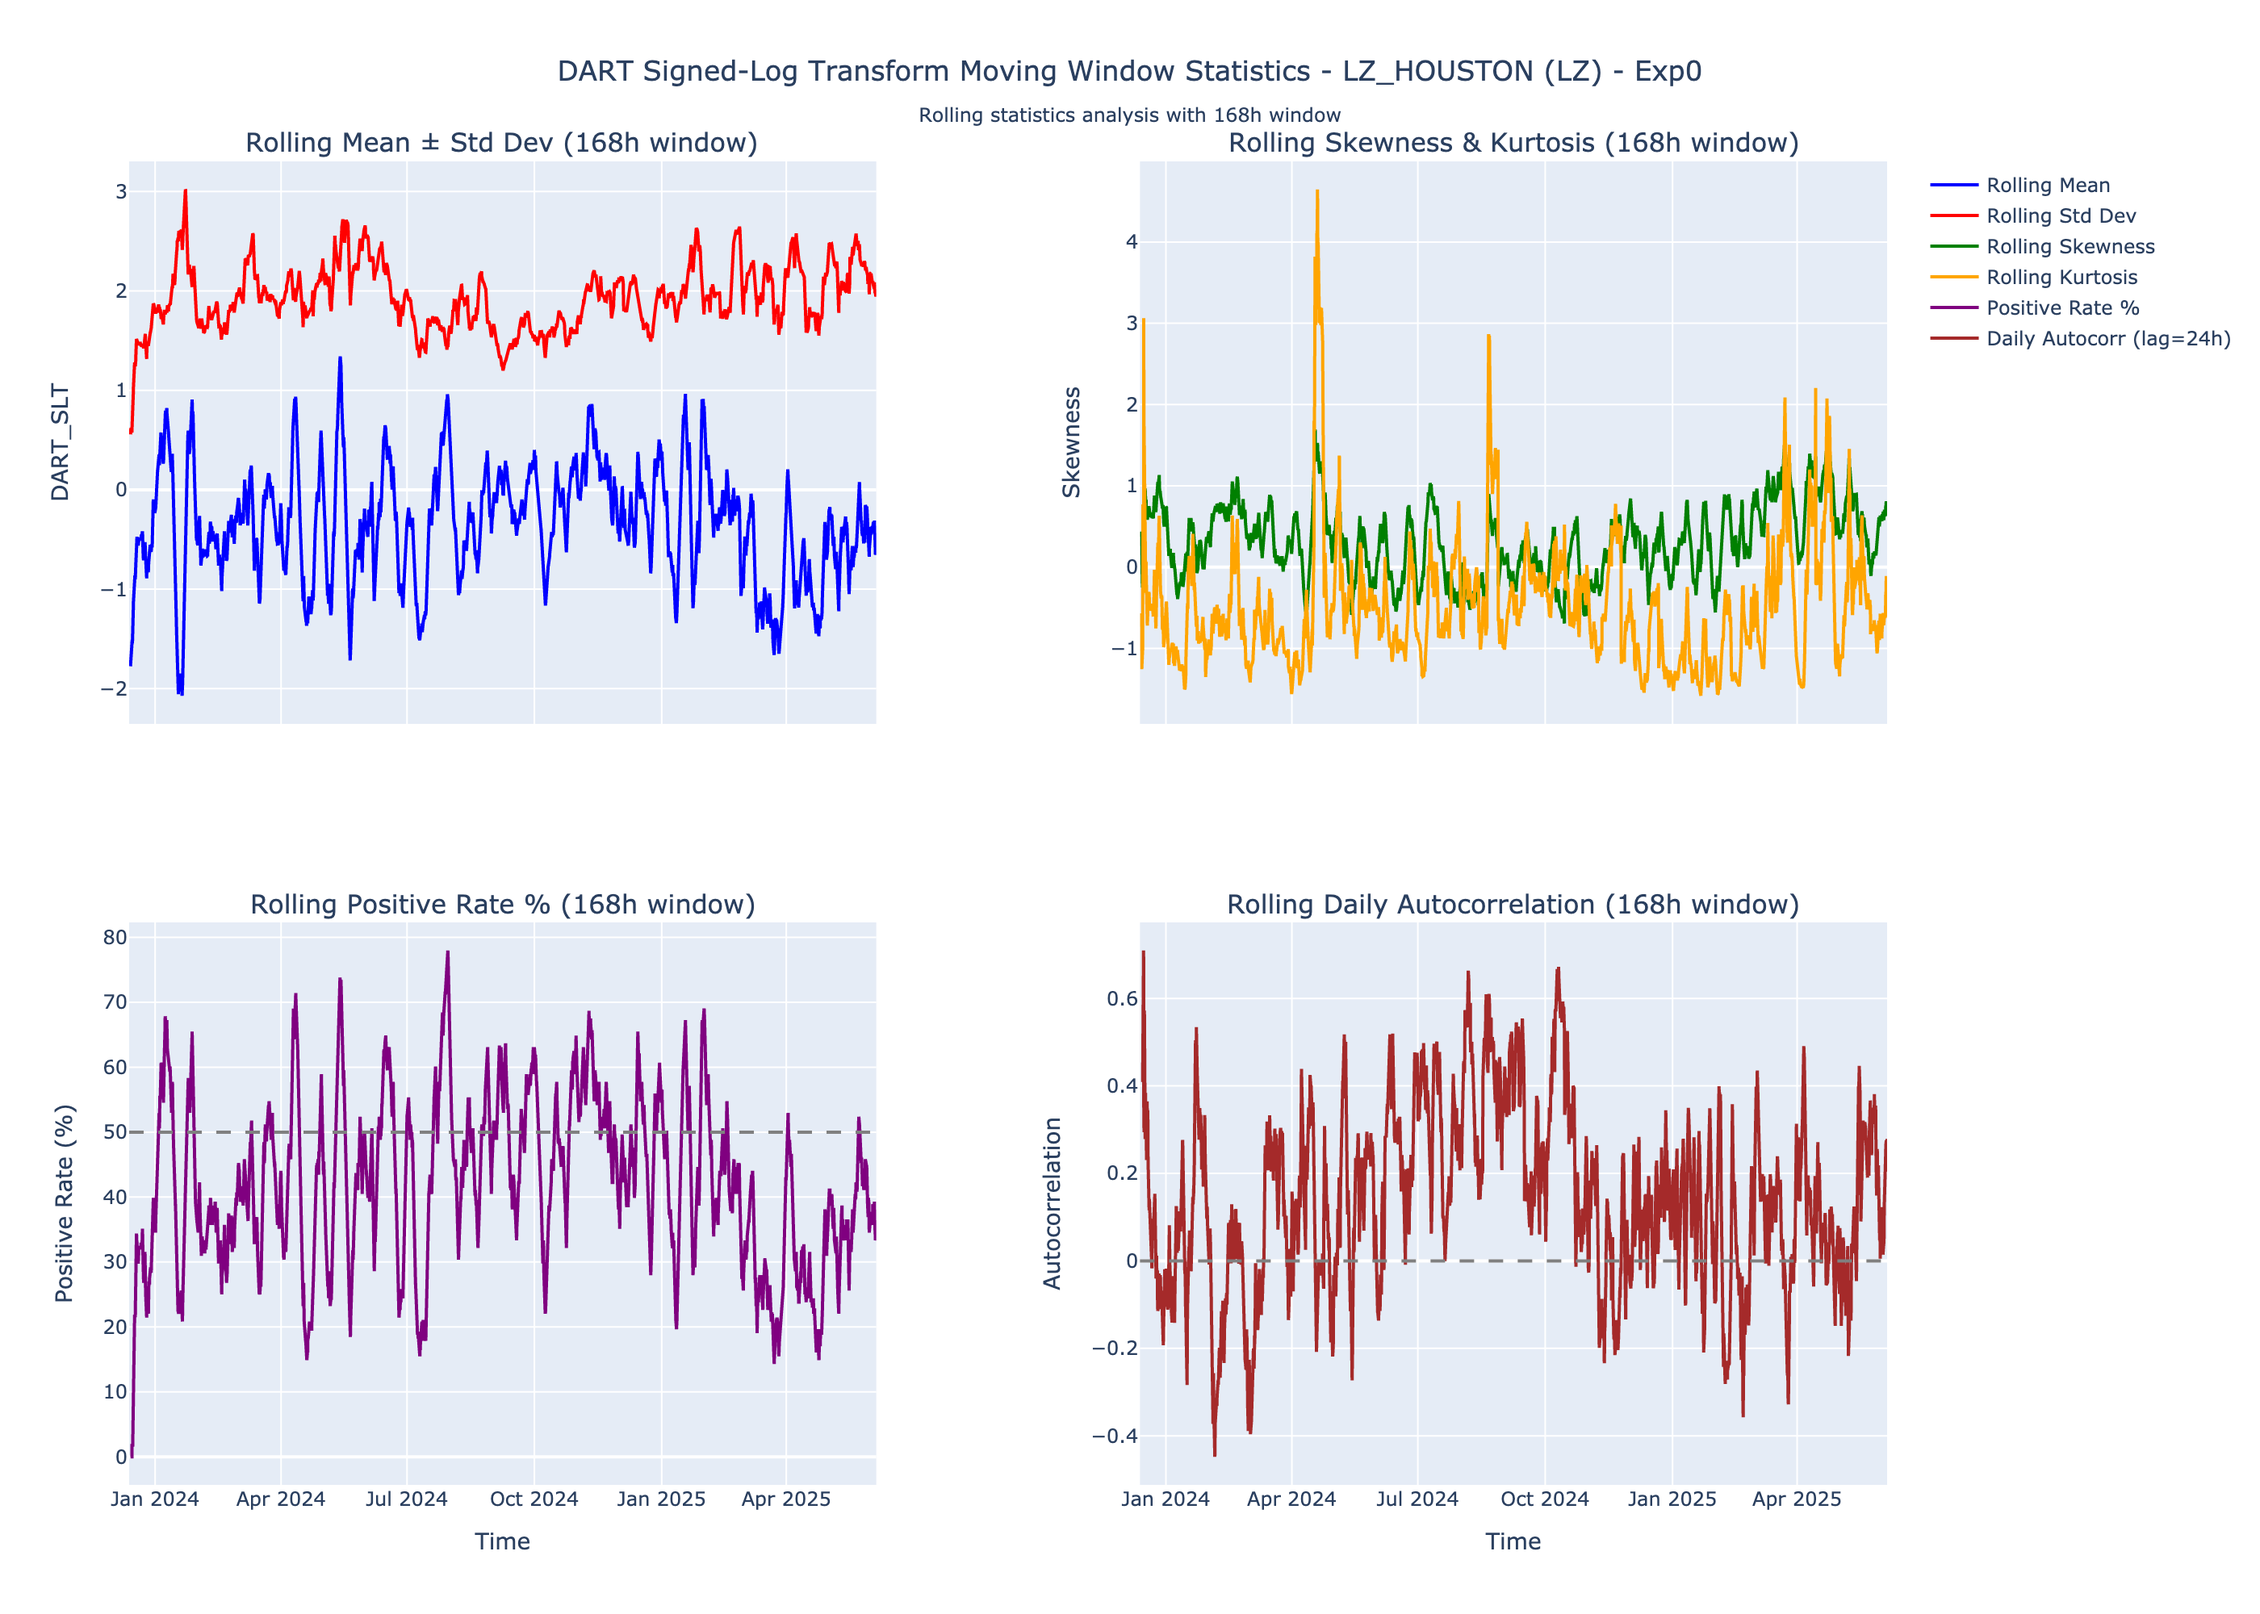
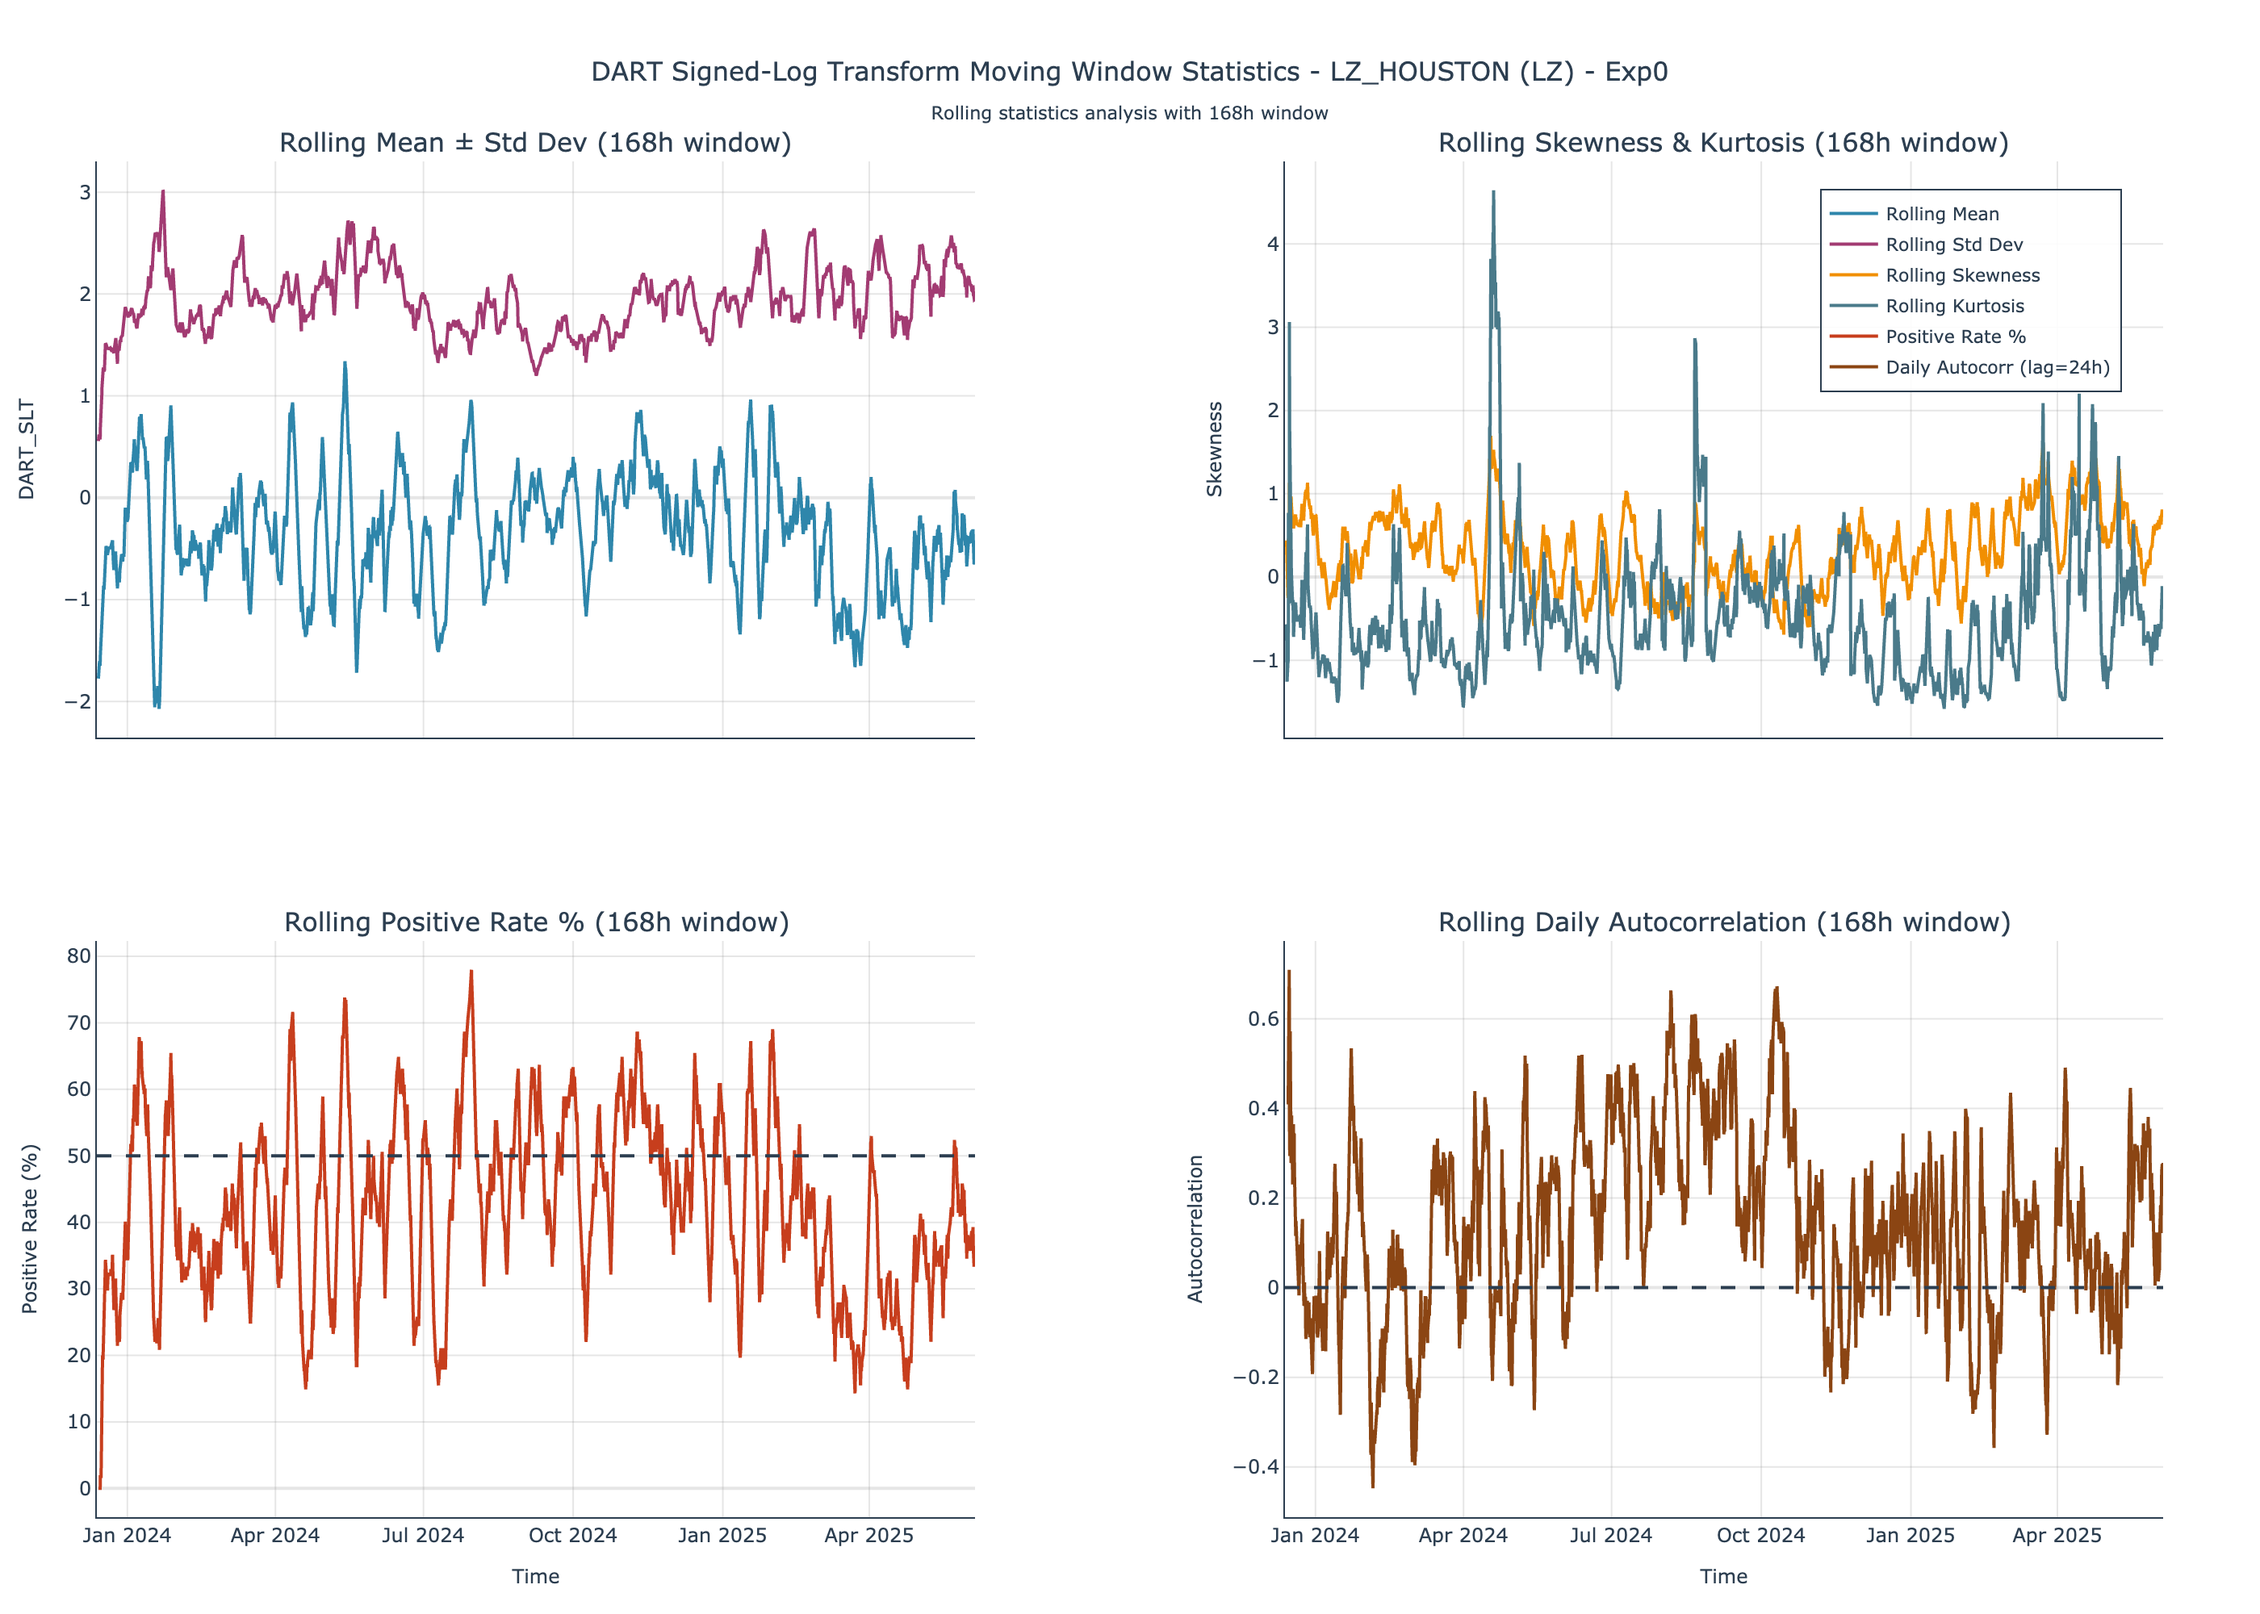
Refining plots for that professional look.

diff --git a/src/features/ercot/visualization.py b/src/features/ercot/visualization.py
@@ -2522,7 +2522,7 @@ def plot_dart_slt_moving_window_stats(
                 y=rolling_mean.values,
                 mode="lines",
                 name="Rolling Mean",
-                line=dict(color="blue", width=2),
+                line=dict(color=COLOR_SEQUENCE[0], width=2),  # Professional blue
                 showlegend=True
             ),
             row=1, col=1
@@ -2534,7 +2534,7 @@ def plot_dart_slt_moving_window_stats(
                 y=rolling_std.values,
                 mode="lines",
                 name="Rolling Std Dev",
-                line=dict(color="red", width=2),
+                line=dict(color=COLOR_SEQUENCE[1], width=2),  # Professional magenta
                 yaxis="y2",
                 showlegend=True
             ),
@@ -2548,7 +2548,7 @@ def plot_dart_slt_moving_window_stats(
                 y=rolling_skew.values,
                 mode="lines",
                 name="Rolling Skewness",
-                line=dict(color="green", width=2),
+                line=dict(color=COLOR_SEQUENCE[2], width=2),  # Professional orange
                 showlegend=True
             ),
             row=1, col=2
@@ -2560,7 +2560,7 @@ def plot_dart_slt_moving_window_stats(
                 y=rolling_kurt.values,
                 mode="lines",
                 name="Rolling Kurtosis",
-                line=dict(color="orange", width=2),
+                line=dict(color=COLOR_SEQUENCE[3], width=2),  # Professional teal
                 yaxis="y4",
                 showlegend=True
             ),
@@ -2574,14 +2574,14 @@ def plot_dart_slt_moving_window_stats(
                 y=rolling_positive_pct.values,
                 mode="lines",
                 name="Positive Rate %",
-                line=dict(color="purple", width=2),
+                line=dict(color=COLOR_SEQUENCE[4], width=2),  # Professional red
                 showlegend=True
             ),
             row=2, col=1
         )
         
         # Add 50% reference line
-        fig.add_hline(y=50, line_dash="dash", line_color="gray", row=2, col=1)
+        fig.add_hline(y=50, line_dash="dash", line_color=SEMANTIC_COLORS['neutral_line'], row=2, col=1)
         
         # Plot 4: Rolling autocorrelation
         fig.add_trace(
@@ -2590,27 +2590,29 @@ def plot_dart_slt_moving_window_stats(
                 y=rolling_autocorr.values,
                 mode="lines",
                 name="Daily Autocorr (lag=24h)",
-                line=dict(color="brown", width=2),
+                line=dict(color=COLOR_SEQUENCE[5], width=2),  # Professional brown
                 showlegend=True
             ),
             row=2, col=2
         )
         
         # Add 0 reference line
-        fig.add_hline(y=0, line_dash="dash", line_color="gray", row=2, col=2)
+        fig.add_hline(y=0, line_dash="dash", line_color=SEMANTIC_COLORS['neutral_line'], row=2, col=2)
         
-        # Update layout
-        fig.update_layout(
-            title={
-                "text": f"DART Signed-Log Transform Moving Window Statistics - {point}{title_suffix}<br><sub>Rolling statistics analysis with {window_hours}h window</sub>",
-                "x": 0.5,
-                "xanchor": "center"
-            },
+        # Apply professional layout
+        professional_title = f"DART Signed-Log Transform Moving Window Statistics - {point}{title_suffix}<br><sub style='color:{PROFESSIONAL_COLORS['text']}'>Rolling statistics analysis with {window_hours}h window</sub>"
+        layout = get_professional_layout(
+            title=professional_title,
             height=800,
-            showlegend=True
+            showlegend=True,
+            legend_position='upper_right'
         )
+        fig.update_layout(**layout)
         
-        # Update axis labels
+        # Apply professional axis styling
+        apply_professional_axis_styling(fig, rows=2, cols=2)
+        
+        # Update specific axis labels
         fig.update_yaxes(title_text="DART_SLT", row=1, col=1)
         fig.update_yaxes(title_text="Skewness", row=1, col=2)
         fig.update_yaxes(title_text="Positive Rate (%)", row=2, col=1)
